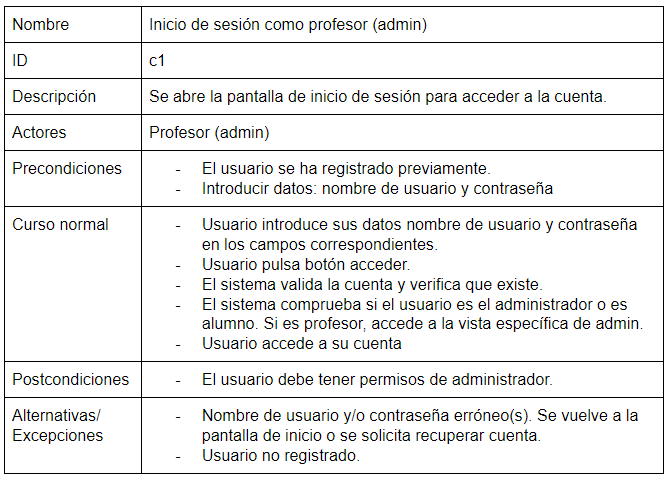
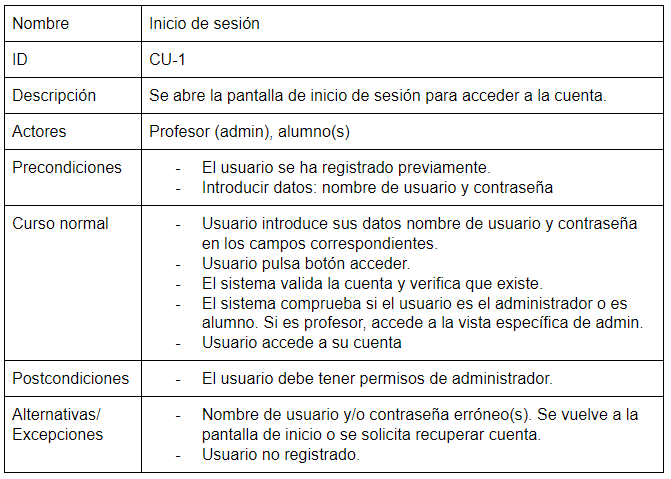
Modificar casos de usos

Changed region(s): [[0.0, 0.0, 1.0, 0.9937]]

diff --git a/README.md b/README.md
@@ -144,6 +144,30 @@ Por ello, hemos desarrollado un grupo de ideas que pueden llegar a satisfacer di
 
 <br>
 
+<p align="center">
+<img src="/resources/tabla5casosdeuso.PNG"/>
+</p>
+
+<br>
+
+<p align="center">
+<img src="/resources/tabla6casosdeuso.PNG"/>
+</p>
+
+<br>
+
+<p align="center">
+<img src="/resources/tabla7casosdeuso.PNG"/>
+</p>
+
+<br>
+
+<p align="center">
+<img src="/resources/tabla8casosdeuso.PNG"/>
+</p>
+
+<br>
+
 <a name="9"></a>
 # ACTIVIDAD 4
 
